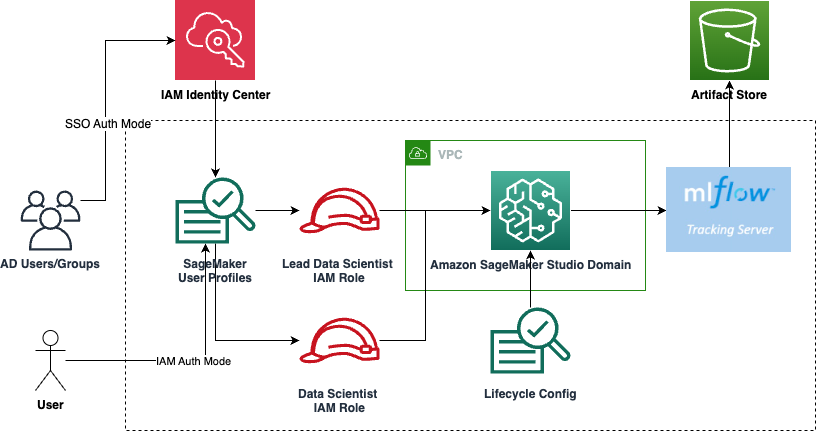
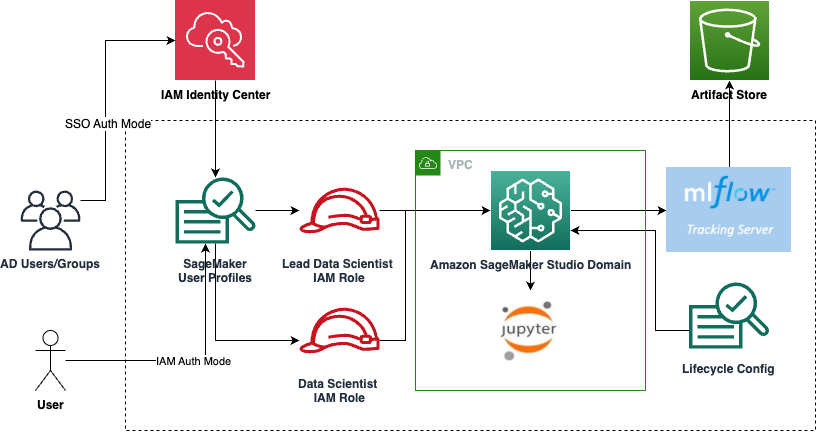
feat: add docker support to sagemaker studio (#310)
* feat: add docker support to sagemaker studio

* changelog

* bump CDK

* test cases & README

* add vpc-only trusted accounts

* udpate arch diagram

* fix notebook name

* update manifest

* fix test

* typo

diff --git a/modules/sagemaker/sagemaker-studio/stack.py b/modules/sagemaker/sagemaker-studio/stack.py
@@ -34,6 +34,8 @@ class SagemakerStudioStack(Stack):
         enable_domain_resource_isolation: bool,
         enable_jupyterlab_app: bool,
         enable_jupyterlab_app_sharing: bool,
+        enable_docker_access: bool,
+        vpc_only_trusted_accounts: List[str],
         jupyterlab_app_instance_type: Optional[str],
         auth_mode: str,
         role_path: Optional[str],
@@ -75,6 +77,8 @@ class SagemakerStudioStack(Stack):
             app_image_config_name=app_image_config_name,
             image_name=image_name,
             auth_mode=auth_mode,
+            enable_docker_access=enable_docker_access,
+            vpc_only_trusted_accounts=vpc_only_trusted_accounts,
         )
 
         if enable_custom_sagemaker_projects:
@@ -326,6 +330,8 @@ class SagemakerStudioStack(Stack):
         app_image_config_name: Optional[str],
         image_name: Optional[str],
         auth_mode: str,
+        enable_docker_access: bool,
+        vpc_only_trusted_accounts: List[str],
     ) -> sagemaker.CfnDomain:
         """
         Create the SageMaker Studio Domain
@@ -334,7 +340,12 @@ class SagemakerStudioStack(Stack):
         :param s3_bucket: - S3 bucket used for sharing notebooks between users
         :param sagemaker_studio_role: - IAM Execution Role for the domain
         :param subnet_ids: - list of comma separated subnet ids
-        :param vpc_id: - VPC Id for the domain
+        :param vpc_id: -  VPC Id for the domain
+        :param app_image_config_name: - config name
+        :param image_name: - image name
+        :param auth_mode: - auth mode (IAM or SSO)
+        :param enable_docker_access: - flag to enable docker from studio
+        :param vpc_only_trusted_accounts: - list of trusted aws account ids in vpc only mode
         """
         sagemaker_sg = ec2.SecurityGroup(
             self,
@@ -367,6 +378,12 @@ class SagemakerStudioStack(Stack):
                 security_groups=[sagemaker_sg.security_group_id],
                 sharing_settings=sagemaker.CfnDomain.SharingSettingsProperty(),
                 **custom_kernel_settings,  # type:ignore
+            ),
+            domain_settings=sagemaker.CfnDomain.DomainSettingsProperty(
+                docker_settings=sagemaker.CfnDomain.DockerSettingsProperty(
+                    enable_docker_access="ENABLED" if enable_docker_access else "DISABLED",
+                    vpc_only_trusted_accounts=vpc_only_trusted_accounts if vpc_only_trusted_accounts else None,
+                ),
             ),
             domain_name=domain_name,
             subnet_ids=subnet_ids,

diff --git a/modules/sagemaker/sagemaker-notebook/tests/test_settings.py b/modules/sagemaker/sagemaker-notebook/tests/test_settings.py
@@ -1,5 +1,4 @@
 import os
-from unittest import mock
 
 import pytest
 
@@ -30,14 +29,11 @@ def env_defaults():
     os.environ["SEEDFARMER_PARAMETER_TAGS"] = '{"dummy321": "dummy321"}'
 
 
-@mock.patch("time.time")
-def test_settings_inputs(mock_time, env_defaults) -> None:
-    mock_time.return_value = 1234567
-
+def test_settings_inputs(env_defaults) -> None:
     settings = ApplicationSettings()
 
     nb_name = os.environ["SEEDFARMER_PARAMETER_NOTEBOOK_NAME"]
-    assert settings.parameters.notebook_name == f"{nb_name}-1234567"
+    assert settings.parameters.notebook_name == nb_name
 
     project_name = os.environ["SEEDFARMER_PROJECT_NAME"]
     deployment_name = os.environ["SEEDFARMER_DEPLOYMENT_NAME"]
@@ -49,22 +45,20 @@ def test_settings_inputs(mock_time, env_defaults) -> None:
     assert settings.default.account == account
 
 
-@mock.patch("time.time")
-def test_settings_nb_name_parameter_length(mock_time, env_defaults) -> None:
-    n = 60
+def test_settings_nb_name_parameter_length(env_defaults) -> None:
+    n = 64
     nb_name = "a" * n
     os.environ["SEEDFARMER_PARAMETER_NOTEBOOK_NAME"] = nb_name
 
-    with pytest.raises(ValueError, match=f"'name' length must be <= 50, got '{n}'"):
+    with pytest.raises(ValueError, match=f"'name' length must be <= 63, got '{n}'"):
         ApplicationSettings()
 
     n = 50
     nb_name = "a" * n
-    mock_time.return_value = 1234567
     os.environ["SEEDFARMER_PARAMETER_NOTEBOOK_NAME"] = nb_name
     settings = ApplicationSettings()
 
-    assert settings.parameters.notebook_name == f"{nb_name}-1234567"
+    assert settings.parameters.notebook_name == nb_name
 
 
 def test_settings_required_parameters(env_defaults) -> None:

diff --git a/modules/sagemaker/sagemaker-studio/tests/test_stack.py b/modules/sagemaker/sagemaker-studio/tests/test_stack.py
@@ -49,6 +49,8 @@ def stack(
     mlflow_artifact_store_bucket_name = "bucket"
     mlflow_artifact_store_bucket_prefix = "/"
     enable_jupyterlab_app_sharing = False
+    enable_docker_access = False
+    vpc_only_trusted_accounts = []
     jupyterlab_app_instance_type = None
 
     return stack.SagemakerStudioStack(
@@ -65,6 +67,8 @@ def stack(
         enable_custom_sagemaker_projects=enable_custom_sagemaker_projects,
         enable_jupyterlab_app=enable_jupyterlab_app,
         enable_jupyterlab_app_sharing=enable_jupyterlab_app_sharing,
+        enable_docker_access=enable_docker_access,
+        vpc_only_trusted_accounts=vpc_only_trusted_accounts,
         jupyterlab_app_instance_type=jupyterlab_app_instance_type,
         auth_mode=auth_mode,
         role_path=role_path,

diff --git a/modules/sagemaker/sagemaker-studio/app.py b/modules/sagemaker/sagemaker-studio/app.py
@@ -28,6 +28,8 @@ stack = SagemakerStudioStack(
     enable_domain_resource_isolation=app_settings.parameters.enable_domain_resource_isolation,
     enable_jupyterlab_app=app_settings.parameters.enable_jupyterlab_app,
     enable_jupyterlab_app_sharing=app_settings.parameters.enable_jupyterlab_app_sharing,
+    enable_docker_access=app_settings.parameters.enable_docker_access,
+    vpc_only_trusted_accounts=app_settings.parameters.vpc_only_trusted_accounts,
     jupyterlab_app_instance_type=app_settings.parameters.jupyterlab_app_instance_type,
     auth_mode=app_settings.parameters.auth_mode,
     role_path=app_settings.parameters.role_path,

diff --git a/modules/sagemaker/sagemaker-notebook/sagemaker_notebook/settings.py b/modules/sagemaker/sagemaker-notebook/sagemaker_notebook/settings.py
@@ -1,6 +1,5 @@
 """Defines the stack settings."""
 
-import time
 from abc import ABC
 from typing import Dict, List, Optional
 
@@ -47,10 +46,10 @@ class SeedFarmerParameters(CdkBaseSettings):
     @classmethod
     def validate_name_length(cls, v: str) -> str:
         """Validate if notebook_name length is valid."""
-        if len(v) <= 50:
-            return f"{v}-{int(time.time())}"
+        if len(v) <= 63:
+            return v
 
-        raise ValueError(f"'name' length must be <= 50, got '{len(v)}'")
+        raise ValueError(f"'name' length must be <= 63, got '{len(v)}'")
 
 
 class SeedFarmerSettings(CdkBaseSettings):

diff --git a/modules/sagemaker/sagemaker-studio/settings.py b/modules/sagemaker/sagemaker-studio/settings.py
@@ -39,6 +39,8 @@ class SeedFarmerParameters(CdkBaseSettings):
     enable_domain_resource_isolation: bool = Field(default=True)
     enable_jupyterlab_app: bool = Field(default=False)
     enable_jupyterlab_app_sharing: bool = Field(default=False)
+    enable_docker_access: bool = Field(default=False)
+    vpc_only_trusted_accounts: List[str] = Field(default=[])
     jupyterlab_app_instance_type: Optional[str] = Field(default=None)
     auth_mode: Literal["IAM", "SSO"] = Field(default="IAM")
     role_path: Optional[str] = Field(default=None)

diff --git a/modules/sagemaker/sagemaker-studio/integ/integ_studio.py b/modules/sagemaker/sagemaker-studio/integ/integ_studio.py
@@ -46,6 +46,8 @@ studio_stack = stack.SagemakerStudioStack(
     enable_domain_resource_isolation=True,
     enable_jupyterlab_app=False,
     enable_jupyterlab_app_sharing=False,
+    enable_docker_access=False,
+    vpc_only_trusted_accounts=[],
     jupyterlab_app_instance_type=None,
     auth_mode="IAM",
     role_path=None,

diff --git a/modules/sagemaker/sagemaker-studio/README.md b/modules/sagemaker/sagemaker-studio/README.md
@@ -56,6 +56,8 @@ Note: If using SSO auth, the account must be set up with IAM Identity Center and
   - `enable_domain_resource_isolation` - `True | False` -- if set to True, SageMaker cannot access resources from other domains.  Default is True
   - `enable_jupyterlab_app` - `True | False` -- if set to True, JupyterLab space will be created for every user.  Default is False
   - `enable_jupyterlab_app_sharing` - `True | False` -- whether to create shared or private JupyterLab spaces.  Default is False (private)
+  - `enable_docker_access` - `True | False` -- whether to enable Docker access.  Default is False
+  - `vpc_only_trusted_accounts` - list of trusted AWS accounts to pull Amazon ECR private registry images from when running Studio in VPC-only mode. Empty by default
   - `jupyterlab_app_instance_type` - EC2 instance type for JupyterLab. Default is `ml.t3.medium`.
   - `mlflow_enabled` - `True | False` -- if set to True, MLFlow Tracking Server will be deployed. Default is `False`.
   - `mlflow_server_name` - tracking server name, `mlflow` by default.

diff --git a/CHANGELOG.md b/CHANGELOG.md
@@ -8,8 +8,10 @@ and this project adheres to [Semantic Versioning](https://semver.org/spec/v2.0.0
 ## UNRELEASED
 
 ### **Added**
+- added `enable_docker_access` to `sagemaker-studio` module
 
 ### **Changed**
+- fixed notebook name lengths in `sagemaker-notebook` module
 
 ## v1.8.0
 
